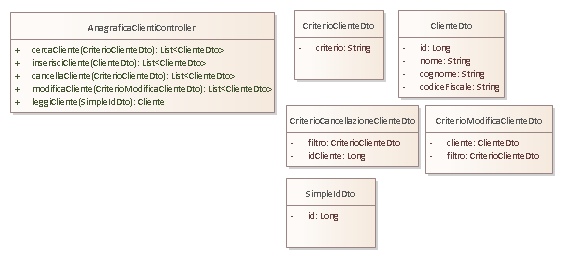
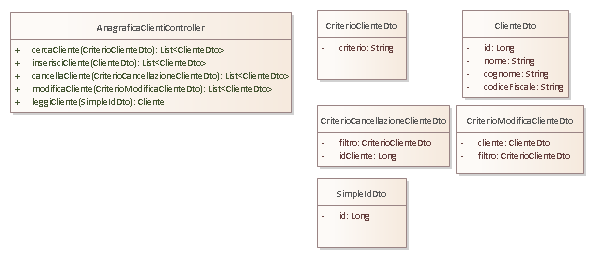
Risolta #21

Changed region(s): [[0.0, 0.031, 0.9964, 0.9922], [0.151, 0.093, 0.3623, 0.124]]

diff --git a/documentazione/web-doc/EARoot/EA5/EA1/EA100.htm b/documentazione/web-doc/EARoot/EA5/EA1/EA100.htm
@@ -84,7 +84,7 @@
 					<td class="indexcell">
 						<div class="projectBrowserTitle">Project: </div>
 						<ul>
-<li><img src="../../../images/175.png" alt=""/> <a href="EA100.htm">Anagrafica Clienti</a></li>
+<li><img src="../../../images/175.png" alt="Diagram"/> <a href="EA100.htm">Anagrafica Clienti</a></li>
 <li><img src="../../../images/5.png" alt="Class"/> <a href="EA103.htm">AnagraficaClientiController</a></li>
 <li><img src="../../../images/5.png" alt="Class"/> <a href="EA104.htm">ClienteDto</a></li>
 <li><img src="../../../images/5.png" alt="Class"/> <a href="EA105.htm">CriterioCancellazioneClienteDto</a></li>
@@ -99,12 +99,12 @@
 <img src="EA101.png" usemap="#EA101" border="0" />
 
 <MAP NAME="EA101">
-<area shape="rect" coords="286,178,376,248" href="EA108.htm" target="_self">
-<area shape="rect" coords="425,105,553,174" href="EA107.htm" target="_self">
-<area shape="rect" coords="286,105,419,167" href="EA105.htm" target="_self">
-<area shape="rect" coords="398,10,505,98" href="EA104.htm" target="_self">
-<area shape="rect" coords="294,10,384,80" href="EA106.htm" target="_self">
-<area shape="rect" coords="10,12,275,113" href="EA103.htm" target="_self">
+<area shape="rect" coords="317,178,407,248" href="EA108.htm" target="_self">
+<area shape="rect" coords="456,105,584,174" href="EA107.htm" target="_self">
+<area shape="rect" coords="317,105,450,167" href="EA105.htm" target="_self">
+<area shape="rect" coords="462,10,569,98" href="EA104.htm" target="_self">
+<area shape="rect" coords="317,10,407,80" href="EA106.htm" target="_self">
+<area shape="rect" coords="10,12,292,113" href="EA103.htm" target="_self">
 </MAP>
  </div>
 	<div class="ObjectTitle">Anagrafica Clienti : Class diagram</div>
@@ -115,7 +115,7 @@
 		</tr>
 		<tr>
 			<td width="15%" class="ObjectDetailsTopic">Modified:</td>
-			<td width="85%" class="ObjectDetailsValue">29/07/2022 12:44:39</td>
+			<td width="85%" class="ObjectDetailsValue">01/08/2022 15:19:49</td>
 		</tr>
 		<tr style="padding-top: 10px;">
 			<td width="15%" class="ObjectDetailsTopic"><button onclick="switchProjectProperties()"><img src="../../../images/plus03.gif" align="absmiddle" id="proj" /></button>Project:</td>

diff --git a/documentazione/web-doc/index.htm b/documentazione/web-doc/index.htm
@@ -104,12 +104,12 @@
 <img src="./EARoot/EA5/EA1/EA101.png" usemap="#EA101" border="0" />
 
 <MAP NAME="EA101">
-<area shape="rect" coords="286,178,376,248" href="EARoot/EA108.htm" target="_self">
-<area shape="rect" coords="425,105,553,174" href="EARoot/EA107.htm" target="_self">
-<area shape="rect" coords="286,105,419,167" href="EARoot/EA105.htm" target="_self">
-<area shape="rect" coords="398,10,505,98" href="EARoot/EA104.htm" target="_self">
-<area shape="rect" coords="294,10,384,80" href="EARoot/EA106.htm" target="_self">
-<area shape="rect" coords="10,12,275,113" href="EARoot/EA103.htm" target="_self">
+<area shape="rect" coords="317,178,407,248" href="EARoot/EA108.htm" target="_self">
+<area shape="rect" coords="456,105,584,174" href="EARoot/EA107.htm" target="_self">
+<area shape="rect" coords="317,105,450,167" href="EARoot/EA105.htm" target="_self">
+<area shape="rect" coords="462,10,569,98" href="EARoot/EA104.htm" target="_self">
+<area shape="rect" coords="317,10,407,80" href="EARoot/EA106.htm" target="_self">
+<area shape="rect" coords="10,12,292,113" href="EARoot/EA103.htm" target="_self">
 </MAP>
  </div>
 	<div class="ObjectTitle">Anagrafica Clienti : Class diagram</div>
@@ -120,7 +120,7 @@
 		</tr>
 		<tr>
 			<td width="15%" class="ObjectDetailsTopic">Modified:</td>
-			<td width="85%" class="ObjectDetailsValue">29/07/2022 12:44:39</td>
+			<td width="85%" class="ObjectDetailsValue">01/08/2022 15:19:49</td>
 		</tr>
 		<tr style="padding-top: 10px;">
 			<td width="15%" class="ObjectDetailsTopic"><button onclick="switchProjectProperties()"><img src="./images//plus03.gif" align="absmiddle" id="proj" /></button>Project:</td>

diff --git a/documentazione/web-doc/EARoot/EA3/EA2/EA71.htm b/documentazione/web-doc/EARoot/EA3/EA2/EA71.htm
@@ -84,14 +84,14 @@
 					<td class="indexcell">
 						<div class="projectBrowserTitle">Project: </div>
 						<ul>
-<li><img src="../../../images/16.png" alt="GUIElement"/> <a href="EA72.htm">Anagrafica Clienti</a></li>
-<li><img src="../../../images/16.png" alt="GUIElement"/> <a href="EA73.htm">Cancella</a></li>
-<li><img src="../../../images/16.png" alt="GUIElement"/> <a href="EA74.htm">Cerca</a></li>
 <li><img src="../../../images/16.png" alt="GUIElement"/> <a href="EA75.htm">ClientArea1</a></li>
-<li><img src="../../../images/16.png" alt="GUIElement"/> <a href="EA76.htm">criterioRicerca</a></li>
-<li><img src="../../../images/16.png" alt="GUIElement"/> <a href="EA77.htm">Modifica</a></li>
 <li><img src="../../../images/16.png" alt="GUIElement"/> <a href="EA78.htm">Nuovo</a></li>
+<li><img src="../../../images/16.png" alt="GUIElement"/> <a href="EA73.htm">Cancella</a></li>
+<li><img src="../../../images/16.png" alt="GUIElement"/> <a href="EA77.htm">Modifica</a></li>
 <li><img src="../../../images/16.png" alt="GUIElement"/> <a href="EA79.htm">Table1</a></li>
+<li><img src="../../../images/16.png" alt="GUIElement"/> <a href="EA74.htm">Cerca</a></li>
+<li><img src="../../../images/16.png" alt="GUIElement"/> <a href="EA76.htm">criterioRicerca</a></li>
+<li><img src="../../../images/16.png" alt="GUIElement"/> <a href="EA72.htm">Anagrafica Clienti</a></li>
 </ul>
 
 					</td>

diff --git a/documentazione/web-doc/EARoot/EA3/EA2/EA75.htm b/documentazione/web-doc/EARoot/EA3/EA2/EA75.htm
@@ -85,13 +85,13 @@
 						<div class="projectBrowserTitle">Project: </div>
 						<ul>
 <li><img src="../../../images/16.png" alt="GUIElement"/> <a href="EA80.htm">Annulla</a></li>
-<li><img src="../../../images/16.png" alt="GUIElement"/> <a href="EA81.htm">codice fiscale</a></li>
-<li><img src="../../../images/16.png" alt="GUIElement"/> <a href="EA82.htm">cognome</a></li>
 <li><img src="../../../images/16.png" alt="GUIElement"/> <a href="EA83.htm">Conferma</a></li>
-<li><img src="../../../images/16.png" alt="GUIElement"/> <a href="EA84.htm">nome</a></li>
-<li><img src="../../../images/16.png" alt="GUIElement"/> <a href="EA85.htm">Text1</a></li>
-<li><img src="../../../images/16.png" alt="GUIElement"/> <a href="EA86.htm">Text2</a></li>
 <li><img src="../../../images/16.png" alt="GUIElement"/> <a href="EA87.htm">Text3</a></li>
+<li><img src="../../../images/16.png" alt="GUIElement"/> <a href="EA81.htm">codice fiscale</a></li>
+<li><img src="../../../images/16.png" alt="GUIElement"/> <a href="EA86.htm">Text2</a></li>
+<li><img src="../../../images/16.png" alt="GUIElement"/> <a href="EA82.htm">cognome</a></li>
+<li><img src="../../../images/16.png" alt="GUIElement"/> <a href="EA85.htm">Text1</a></li>
+<li><img src="../../../images/16.png" alt="GUIElement"/> <a href="EA84.htm">nome</a></li>
 </ul>
 
 					</td>

diff --git a/documentazione/web-doc/EARoot/EA5/EA99.htm b/documentazione/web-doc/EARoot/EA5/EA99.htm
@@ -84,7 +84,7 @@
 					<td class="indexcell">
 						<div class="projectBrowserTitle">Project: </div>
 						<ul>
-<li><img src="../../images/175.png" alt=""/> <a href="./EA1/EA100.htm">Anagrafica Clienti</a></li>
+<li><img src="../../images/175.png" alt="Diagram"/> <a href="./EA1/EA100.htm">Anagrafica Clienti</a></li>
 <li><img src="../../images/5.png" alt="Class"/> <a href="./EA1/EA103.htm">AnagraficaClientiController</a></li>
 <li><img src="../../images/5.png" alt="Class"/> <a href="./EA1/EA104.htm">ClienteDto</a></li>
 <li><img src="../../images/5.png" alt="Class"/> <a href="./EA1/EA105.htm">CriterioCancellazioneClienteDto</a></li>

diff --git a/documentazione/web-doc/EARoot/EA1/EA5.htm b/documentazione/web-doc/EARoot/EA1/EA5.htm
@@ -84,7 +84,7 @@
 					<td class="indexcell">
 						<div class="projectBrowserTitle">Project: </div>
 						<ul>
-<li><img src="../../images/180.png" alt=""/> <a href="./EA2/EA15.htm">Gestione Anagrafiche</a></li>
+<li><img src="../../images/180.png" alt="Diagram"/> <a href="./EA2/EA15.htm">Gestione Anagrafiche</a></li>
 <li><img src="../../images/7.png" alt="UseCase"/> <a href="./EA2/EA18.htm">Cancellazione Cliente</a></li>
 <li><img src="../../images/7.png" alt="UseCase"/> <a href="./EA2/EA19.htm">Gestione Clienti</a></li>
 <li><img src="../../images/7.png" alt="UseCase"/> <a href="./EA2/EA21.htm">Gestione Conti Correnti</a></li>

diff --git a/documentazione/web-doc/EARoot/EA5/EA1/EA102.htm b/documentazione/web-doc/EARoot/EA5/EA1/EA102.htm
@@ -84,7 +84,7 @@
 					<td class="indexcell">
 						<div class="projectBrowserTitle">Project: </div>
 						<ul>
-<li><img src="../../../images/175.png" alt=""/> <a href="EA100.htm">Anagrafica Clienti</a></li>
+<li><img src="../../../images/175.png" alt="Diagram"/> <a href="EA100.htm">Anagrafica Clienti</a></li>
 <li><img src="../../../images/5.png" alt="Class"/> <a href="EA103.htm">AnagraficaClientiController</a></li>
 <li><img src="../../../images/5.png" alt="Class"/> <a href="EA104.htm">ClienteDto</a></li>
 <li><img src="../../../images/5.png" alt="Class"/> <a href="EA105.htm">CriterioCancellazioneClienteDto</a></li>

diff --git a/documentazione/web-doc/EARoot/EA1/EA2/EA15.htm b/documentazione/web-doc/EARoot/EA1/EA2/EA15.htm
@@ -84,7 +84,7 @@
 					<td class="indexcell">
 						<div class="projectBrowserTitle">Project: </div>
 						<ul>
-<li><img src="../../../images/180.png" alt=""/> <a href="EA15.htm">Gestione Anagrafiche</a></li>
+<li><img src="../../../images/180.png" alt="Diagram"/> <a href="EA15.htm">Gestione Anagrafiche</a></li>
 <li><img src="../../../images/7.png" alt="UseCase"/> <a href="EA18.htm">Cancellazione Cliente</a></li>
 <li><img src="../../../images/7.png" alt="UseCase"/> <a href="EA19.htm">Gestione Clienti</a></li>
 <li><img src="../../../images/7.png" alt="UseCase"/> <a href="EA21.htm">Gestione Conti Correnti</a></li>

diff --git a/documentazione/web-doc/EARoot/EA1/EA2/EA17.htm b/documentazione/web-doc/EARoot/EA1/EA2/EA17.htm
@@ -84,7 +84,7 @@
 					<td class="indexcell">
 						<div class="projectBrowserTitle">Project: </div>
 						<ul>
-<li><img src="../../../images/180.png" alt=""/> <a href="EA15.htm">Gestione Anagrafiche</a></li>
+<li><img src="../../../images/180.png" alt="Diagram"/> <a href="EA15.htm">Gestione Anagrafiche</a></li>
 <li><img src="../../../images/7.png" alt="UseCase"/> <a href="EA18.htm">Cancellazione Cliente</a></li>
 <li><img src="../../../images/7.png" alt="UseCase"/> <a href="EA19.htm">Gestione Clienti</a></li>
 <li><img src="../../../images/7.png" alt="UseCase"/> <a href="EA21.htm">Gestione Conti Correnti</a></li>

diff --git a/documentazione/web-doc/EARoot/EA1/EA4.htm b/documentazione/web-doc/EARoot/EA1/EA4.htm
@@ -84,7 +84,7 @@
 					<td class="indexcell">
 						<div class="projectBrowserTitle">Project: </div>
 						<ul>
-<li><img src="../../images/180.png" alt=""/> <a href="./EA1/EA6.htm">Generale</a></li>
+<li><img src="../../images/180.png" alt="Diagram"/> <a href="./EA1/EA6.htm">Generale</a></li>
 <li><img src="../../images/6.png" alt="Actor"/> <a href="./EA1/EA9.htm">Bancario</a></li>
 <li><img src="../../images/6.png" alt="Actor"/> <a href="./EA1/EA10.htm">Cliente</a></li>
 <li><img src="../../images/7.png" alt="UseCase"/> <a href="./EA1/EA11.htm">Gestione Anagrafiche</a></li>

diff --git a/documentazione/web-doc/EARoot/EA1/EA1/EA6.htm b/documentazione/web-doc/EARoot/EA1/EA1/EA6.htm
@@ -84,7 +84,7 @@
 					<td class="indexcell">
 						<div class="projectBrowserTitle">Project: </div>
 						<ul>
-<li><img src="../../../images/180.png" alt=""/> <a href="EA6.htm">Generale</a></li>
+<li><img src="../../../images/180.png" alt="Diagram"/> <a href="EA6.htm">Generale</a></li>
 <li><img src="../../../images/6.png" alt="Actor"/> <a href="EA9.htm">Bancario</a></li>
 <li><img src="../../../images/6.png" alt="Actor"/> <a href="EA10.htm">Cliente</a></li>
 <li><img src="../../../images/7.png" alt="UseCase"/> <a href="EA11.htm">Gestione Anagrafiche</a></li>

diff --git a/documentazione/web-doc/EARoot/EA1/EA1/EA8.htm b/documentazione/web-doc/EARoot/EA1/EA1/EA8.htm
@@ -84,7 +84,7 @@
 					<td class="indexcell">
 						<div class="projectBrowserTitle">Project: </div>
 						<ul>
-<li><img src="../../../images/180.png" alt=""/> <a href="EA6.htm">Generale</a></li>
+<li><img src="../../../images/180.png" alt="Diagram"/> <a href="EA6.htm">Generale</a></li>
 <li><img src="../../../images/6.png" alt="Actor"/> <a href="EA9.htm">Bancario</a></li>
 <li><img src="../../../images/6.png" alt="Actor"/> <a href="EA10.htm">Cliente</a></li>
 <li><img src="../../../images/7.png" alt="UseCase"/> <a href="EA11.htm">Gestione Anagrafiche</a></li>
